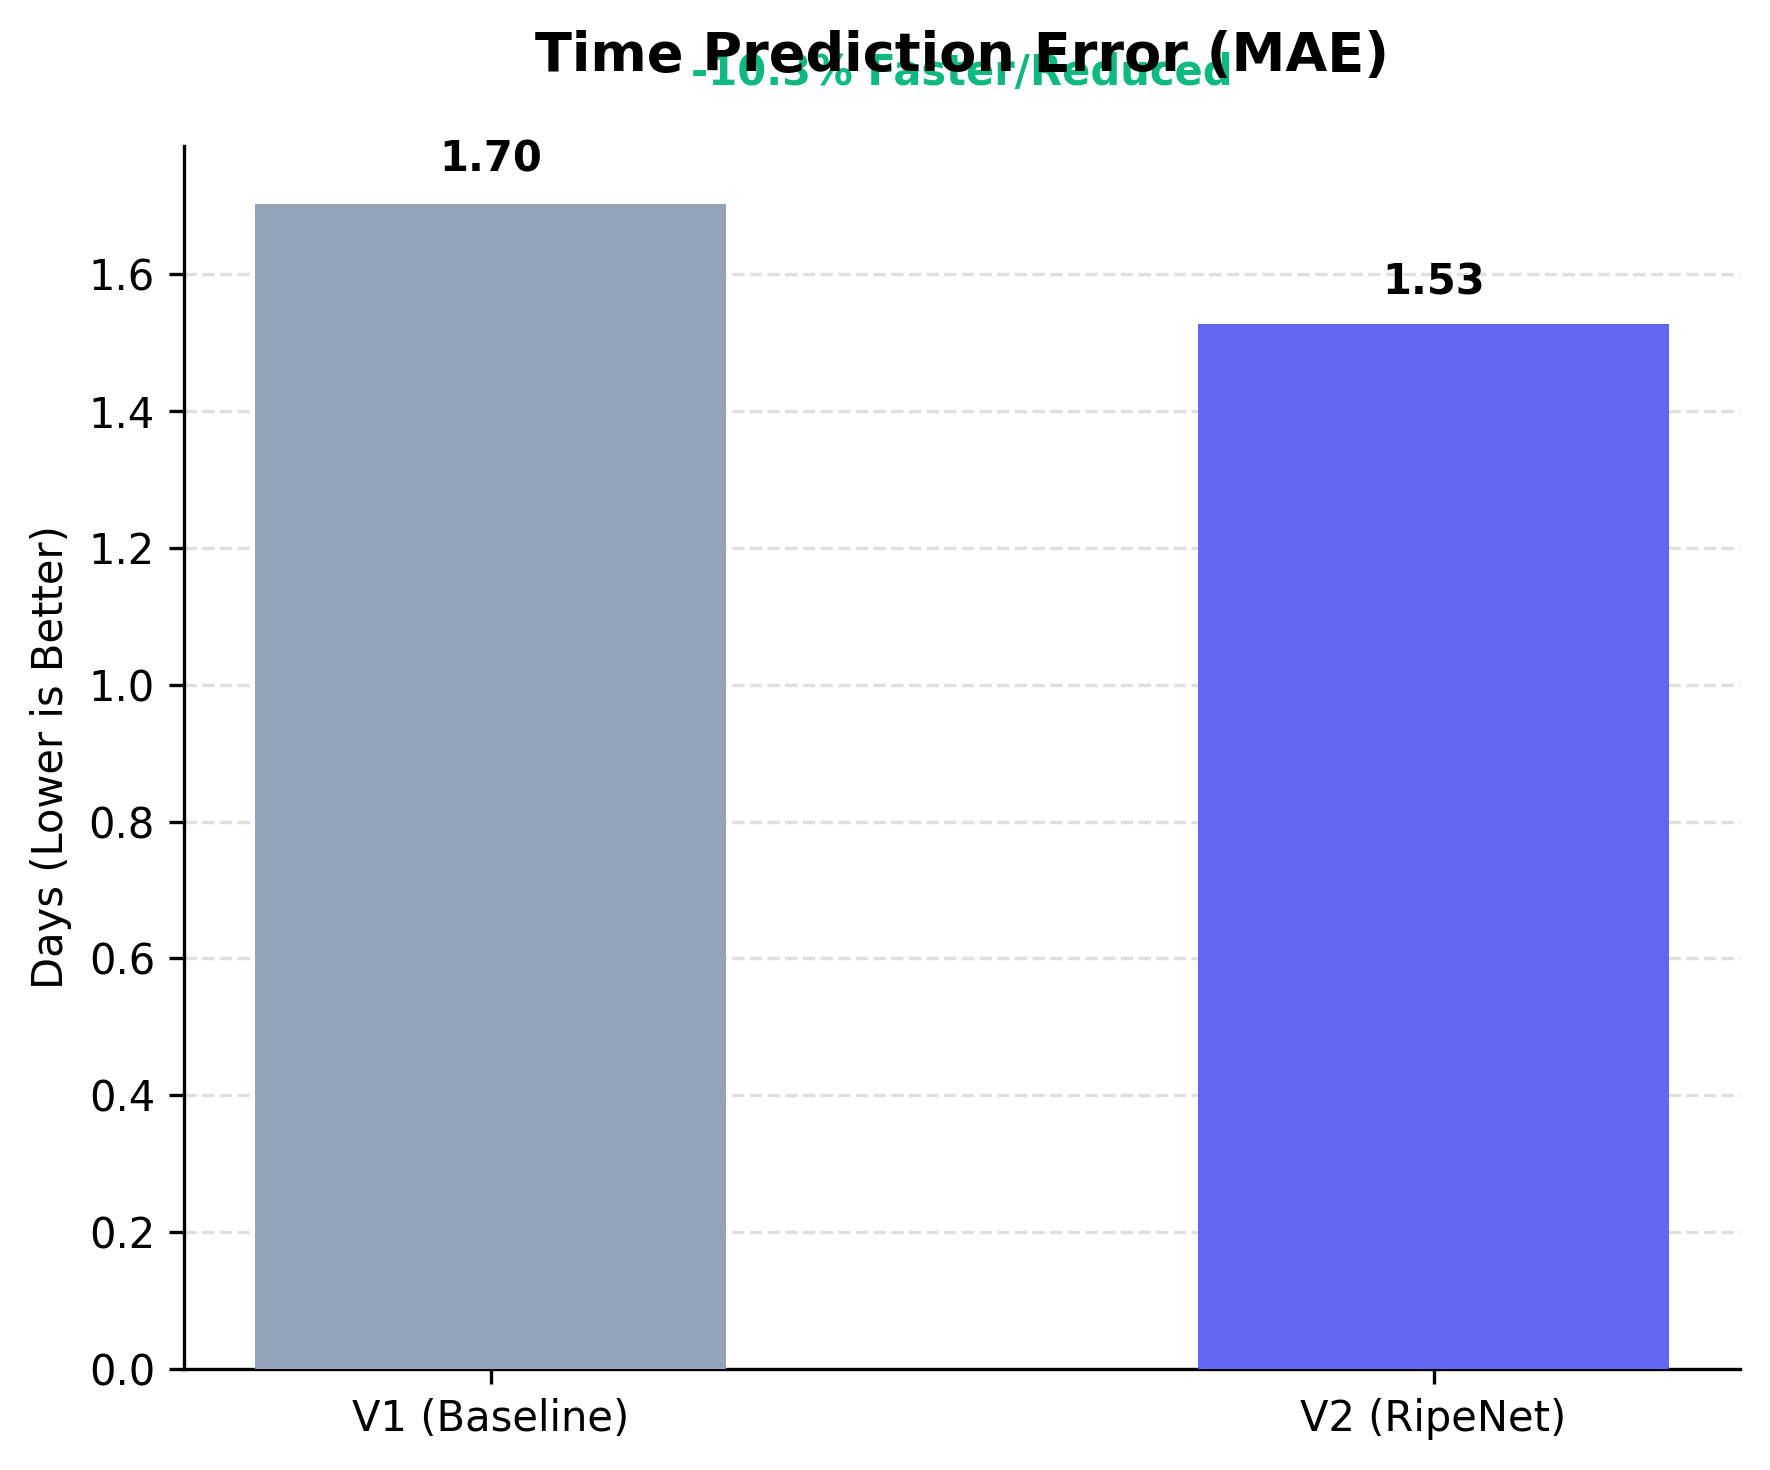
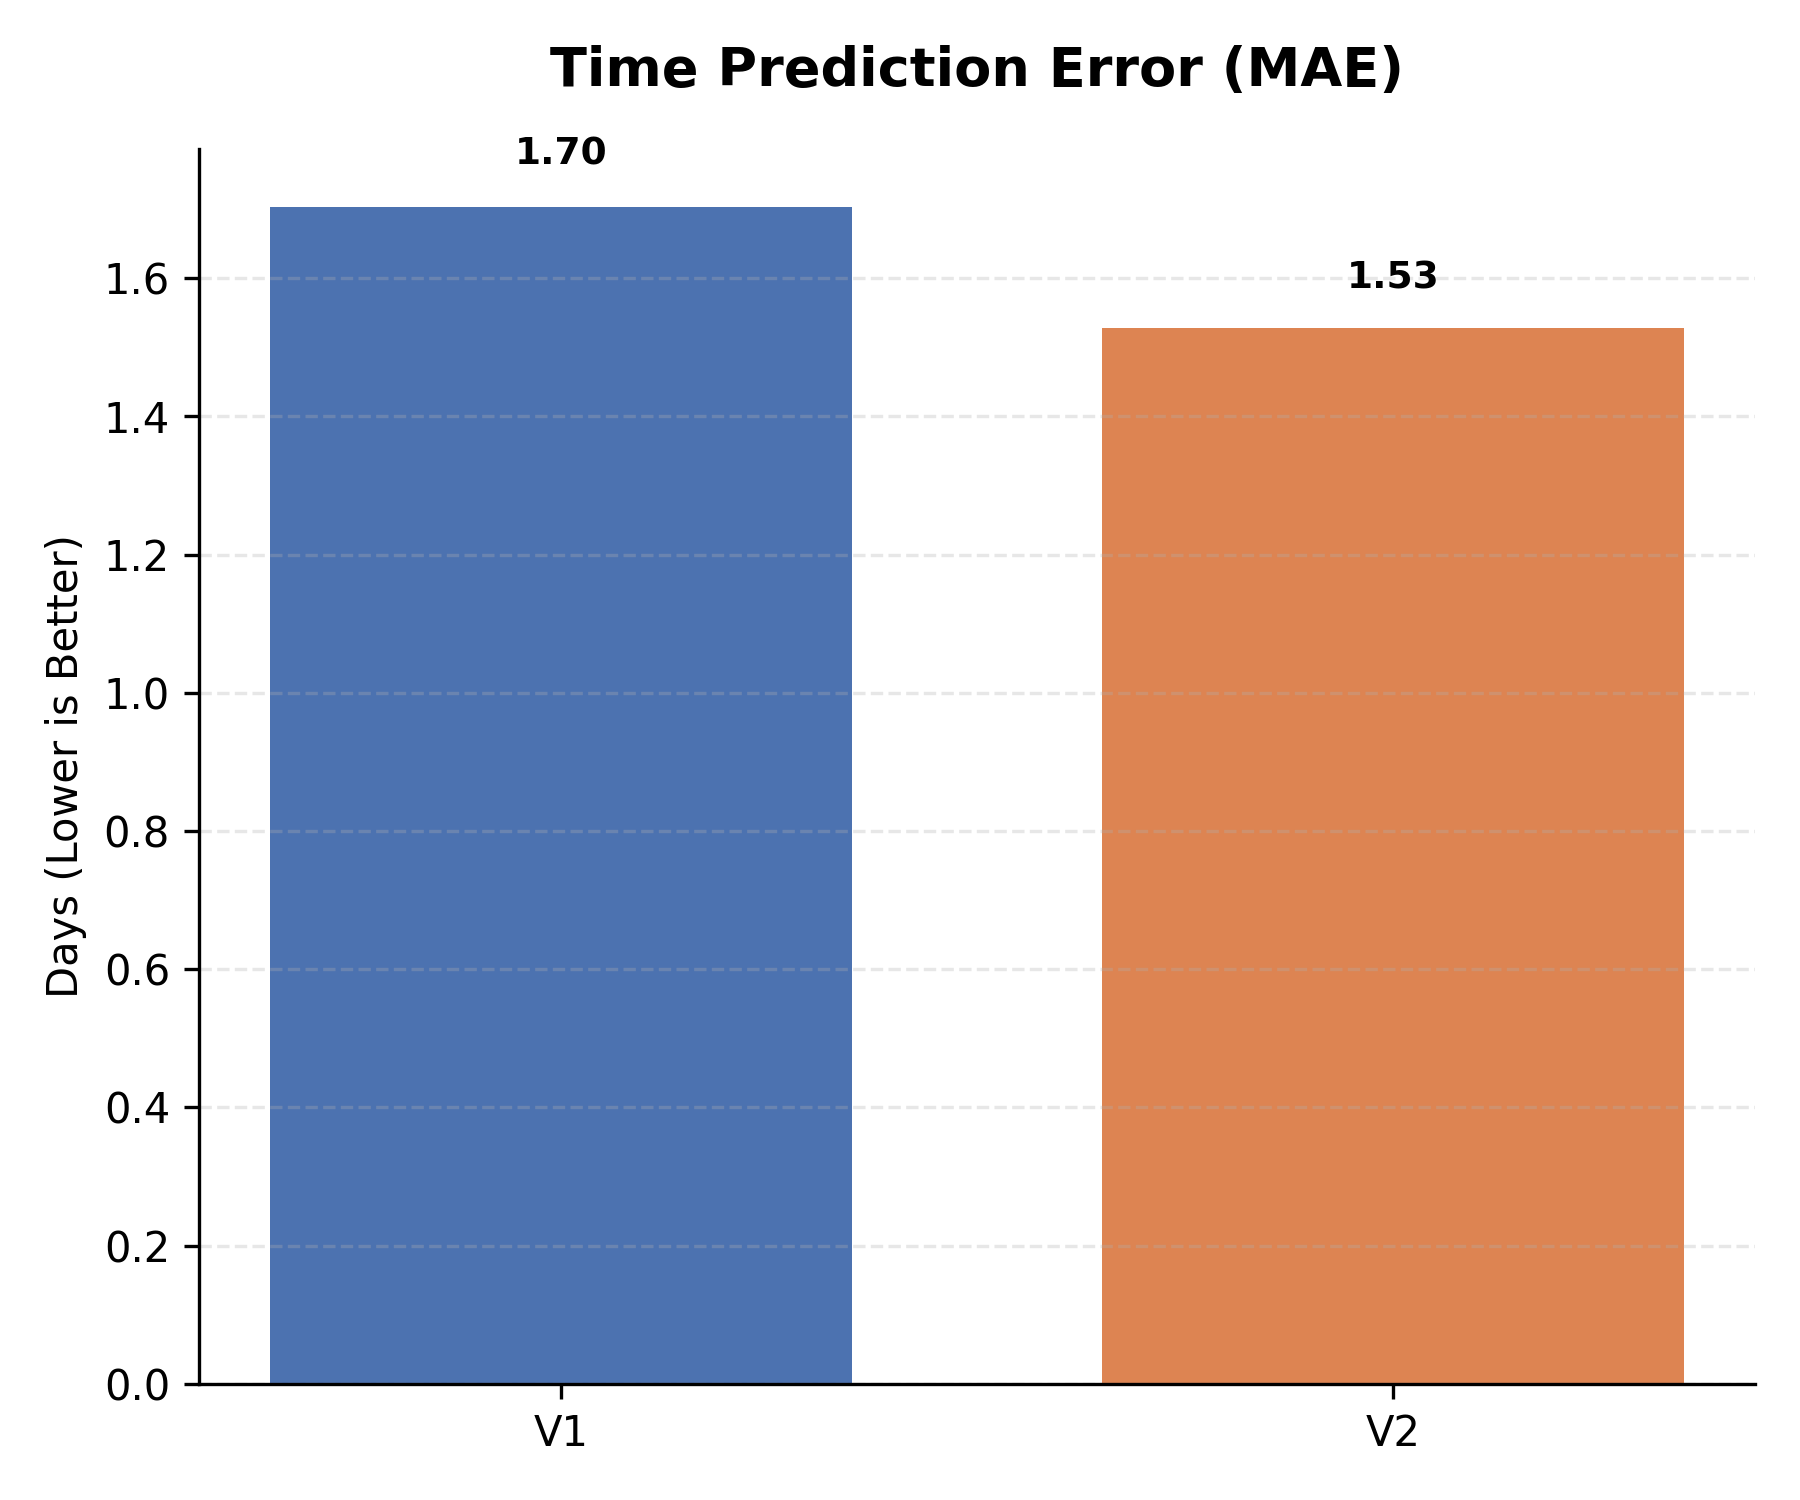
feat: Implement model evaluation and benchmarking for V1 and V2 models, generating performance metrics and comparison plots.

diff --git a/reports/evaluate_models.py b/reports/evaluate_models.py
@@ -108,172 +108,236 @@ v2_model.eval()
 print("Models loaded successfully.\n")
 
 # ==========================
-# FINAL RESEARCH-LEVEL BENCHMARK PLOTS (NO OVERLAP)
+# EVALUATION LOOP
 # ==========================
 
-import seaborn as sns
-import matplotlib.pyplot as plt
+results = []
+
+for _, row in df.iterrows():
+
+    img_path = os.path.join(IMAGE_ROOT, row["image_path"])
+
+    img = Image.open(img_path).convert("RGB")
+    x = transform(img).unsqueeze(0).to(DEVICE)
+
+    # -------- V1 --------
+    t0 = time.time()
+
+    fruit_logits = v1_fruit(x)
+    stage_logits = v1_stage(x)
+    days_pred = v1_time(x)
+
+    v1_time_taken = time.time() - t0
+
+    v1_fruit_pred = V1_FRUIT_MAP[fruit_logits.argmax(dim=1).item()]
+    v1_stage_pred = STAGE_MAP[stage_logits.argmax(dim=1).item()]
+    v1_days_pred  = normalize_days(days_pred.item())
+
+    # -------- V2 --------
+    t0 = time.time()
+
+    v2_out = v2_model(x)
+    fruit_logits_v2 = v2_out["fruit"]
+    stage_logits_v2 = v2_out["ripeness"]
+    days_pred_v2 = v2_out["days"]
+
+    v2_time_taken = time.time() - t0
+
+    v2_fruit_pred = V2_FRUIT_MAP[fruit_logits_v2.argmax(dim=1).item()]
+    v2_stage_pred = STAGE_MAP[stage_logits_v2.argmax(dim=1).item()]
+    v2_days_pred  = normalize_days(days_pred_v2.squeeze().item())
+
+    results.append({
+        "fruit_gt": row["fruit"],
+        "stage_gt": row["stage_name"],
+        "days_gt": row["days"],
+        "v1_fruit": v1_fruit_pred,
+        "v1_stage": v1_stage_pred,
+        "v1_days": v1_days_pred,
+        "v2_fruit": v2_fruit_pred,
+        "v2_stage": v2_stage_pred,
+        "v2_days": v2_days_pred,
+        "v1_time": v1_time_taken,
+        "v2_time": v2_time_taken
+    })
+
+print("Inference completed.\n")
+
+res = pd.DataFrame(results)
+
+# ==========================
+# METRICS
+# ==========================
+
+metrics = {
+    "V1 Fruit Accuracy": accuracy_score(res["fruit_gt"], res["v1_fruit"]),
+    "V2 Fruit Accuracy": accuracy_score(res["fruit_gt"], res["v2_fruit"]),
+    "V1 Stage Accuracy": accuracy_score(res["stage_gt"], res["v1_stage"]),
+    "V2 Stage Accuracy": accuracy_score(res["stage_gt"], res["v2_stage"]),
+    "V1 MAE": mean_absolute_error(res["days_gt"], res["v1_days"]),
+    "V2 MAE": mean_absolute_error(res["days_gt"], res["v2_days"]),
+    "V1 RMSE": np.sqrt(mean_squared_error(res["days_gt"], res["v1_days"])),
+    "V2 RMSE": np.sqrt(mean_squared_error(res["days_gt"], res["v2_days"])),
+    "V1 Avg Time (ms)": res["v1_time"].mean() * 1000,
+    "V2 Avg Time (ms)": res["v2_time"].mean() * 1000
+}
+
+metrics_df = pd.DataFrame(metrics, index=[0])
+metrics_df.to_csv(os.path.join(METRIC_DIR, "summary.csv"), index=False)
+
+print(metrics_df)
+print("\n✅ Evaluation Complete")
+
+# ==========================
+# CLEAN RESEARCH-STYLE BENCHMARK PLOTS (MINIMAL)
+# ==========================
+
+print("\nGenerating clean research-style benchmark figures...")
+
 import matplotlib as mpl
-import pandas as pd
-import os
-import numpy as np
 
-print("\nGenerating final research-level benchmark plots...")
-
-# ---- STYLE CONFIG ----
-sns.set_theme(style="whitegrid", context="paper")
-
+# ---- Clean Academic Style ----
 mpl.rcParams.update({
+    "font.family": "sans-serif",
+    "font.size": 10,
+    "axes.titlesize": 13,
+    "axes.titleweight": "bold",
+    "axes.labelsize": 10,
+    "xtick.labelsize": 10,
+    "ytick.labelsize": 10,
     "figure.dpi": 300,
     "savefig.dpi": 300,
     "axes.spines.top": False,
     "axes.spines.right": False,
-    "axes.titleweight": "bold",
 })
 
-V1_COLOR = "#94A3B8"   # Slate
-V2_COLOR = "#6366F1"   # Indigo
-DELTA_COLOR = "#10B981"  # Emerald green
+# Default research-friendly colors
+V1_COLOR = "#4C72B0"   # Muted Blue
+V2_COLOR = "#DD8452"   # Muted Orange
 
-# ---- METRIC DEFINITIONS ----
-metric_info = [
-    ("Fruit Classification Accuracy",
-     metrics["V1 Fruit Accuracy"] * 100,
-     metrics["V2 Fruit Accuracy"] * 100,
-     True,
-     "Accuracy (%)"),
 
-    ("Ripeness Stage Accuracy",
-     metrics["V1 Stage Accuracy"] * 100,
-     metrics["V2 Stage Accuracy"] * 100,
-     True,
-     "Accuracy (%)"),
+def draw_bar(ax, title, v1, v2, ylabel):
 
-    ("Time Prediction Error (MAE)",
-     metrics["V1 MAE"],
-     metrics["V2 MAE"],
-     False,
-     "Days (Lower is Better)"),
+    is_accuracy = "Accuracy" in title
+    display_v1 = v1 * 100 if is_accuracy else v1
+    display_v2 = v2 * 100 if is_accuracy else v2
 
-    ("Inference Latency",
-     metrics["V1 Avg Time (ms)"],
-     metrics["V2 Avg Time (ms)"],
-     False,
-     "Latency (ms - Lower is Better)")
-]
-
-# ==========================
-# 2x2 GRID FIGURE
-# ==========================
-
-fig, axes = plt.subplots(2, 2, figsize=(12, 9))
-plt.subplots_adjust(hspace=0.5, wspace=0.3)
-
-for ax, (title, v1, v2, higher_is_better, ylabel) in zip(axes.flatten(), metric_info):
-
-    data = pd.DataFrame({
-        "Model": ["V1 (Baseline)", "V2 (RipeNet)"],
-        "Value": [v1, v2]
-    })
-
-    sns.barplot(
-        data=data,
-        x="Model",
-        y="Value",
-        palette=[V1_COLOR, V2_COLOR],
-        ax=ax
+    # Bars closer together
+    bars = ax.bar(
+        ["V1", "V2"],
+        [display_v1, display_v2],
+        color=[V1_COLOR, V2_COLOR],
+        width=0.7   # wider bars = less space between them
     )
 
     ax.set_title(title, pad=15)
     ax.set_ylabel(ylabel)
 
-    # Add value labels on bars
-    for container in ax.containers:
-        ax.bar_label(container, fmt="%.2f", padding=3, fontsize=9)
+    if is_accuracy:
+        ax.set_ylim(0, 100)
 
-    # Compute improvement
-    if higher_is_better:
-        improvement = ((v2 - v1) / v1) * 100
-        delta_text = f"+{improvement:.1f}% Improvement"
-    else:
-        improvement = ((v1 - v2) / v1) * 100
-        delta_text = f"-{improvement:.1f}% Faster/Reduced"
+    ax.yaxis.grid(True, linestyle="--", alpha=0.3)
 
-    # Place improvement text INSIDE plot safely
-    ax.text(
-        0.5,
-        0.90,
-        delta_text,
-        transform=ax.transAxes,
-        ha="center",
-        va="center",
-        fontsize=9,
-        color=DELTA_COLOR,
-        weight="bold",
-        bbox=dict(facecolor="white", edgecolor="none", alpha=0.9, pad=3)
-    )
+    # Value labels
+    for bar in bars:
+        height = bar.get_height()
+        label = f"{height:.2f}%" if is_accuracy else f"{height:.2f}"
+        ax.text(
+            bar.get_x() + bar.get_width()/2,
+            height + (2 if is_accuracy else height * 0.03),
+            label,
+            ha="center",
+            va="bottom",
+            fontsize=9,
+            weight="bold"
+        )
 
-fig.suptitle(
+
+# ==========================
+# 1⃣ COMBINED GRID FIGURE
+# ==========================
+
+fig, axes = plt.subplots(2, 2, figsize=(12, 9))
+plt.subplots_adjust(hspace=0.5, wspace=0.25)
+
+grid_metrics = [
+    ("Fruit Classification Accuracy",
+     metrics["V1 Fruit Accuracy"],
+     metrics["V2 Fruit Accuracy"],
+     "Accuracy (%)"),
+
+    ("Ripeness Stage Accuracy",
+     metrics["V1 Stage Accuracy"],
+     metrics["V2 Stage Accuracy"],
+     "Accuracy (%)"),
+
+    ("Time Prediction Error (MAE)",
+     metrics["V1 MAE"],
+     metrics["V2 MAE"],
+     "Days (Lower is Better)"),
+
+    ("Inference Latency",
+     metrics["V1 Avg Time (ms)"],
+     metrics["V2 Avg Time (ms)"],
+     "Latency (ms - Lower is Better)")
+]
+
+for ax, args in zip(axes.flatten(), grid_metrics):
+    draw_bar(ax, *args)
+
+plt.suptitle(
     "RipeNet V1 vs V2: Multi-Task Learning Benchmark",
     fontsize=15,
-    weight="bold"
+    weight="bold",
+    y=0.97
 )
 
-plt.tight_layout(rect=[0, 0, 1, 0.96])
+plt.tight_layout(rect=[0, 0, 1, 0.95])
 plt.savefig(os.path.join(PLOT_DIR, "benchmark_comparison.png"))
 plt.close()
 
-print("✅ Clean benchmark grid saved.")
 
 # ==========================
-# INDIVIDUAL METRIC FIGURES
+# 2⃣ INDIVIDUAL FIGURES
 # ==========================
 
-for title, v1, v2, higher_is_better, ylabel in metric_info:
+individual_plots = [
+    ("Fruit Classification Accuracy",
+     metrics["V1 Fruit Accuracy"],
+     metrics["V2 Fruit Accuracy"],
+     "Accuracy (%)",
+     "fruit_accuracy.png"),
 
-    plt.figure(figsize=(6,5))
+    ("Ripeness Stage Accuracy",
+     metrics["V1 Stage Accuracy"],
+     metrics["V2 Stage Accuracy"],
+     "Accuracy (%)",
+     "stage_accuracy.png"),
 
-    data = pd.DataFrame({
-        "Model": ["V1 (Baseline)", "V2 (RipeNet)"],
-        "Value": [v1, v2]
-    })
+    ("Time Prediction Error (MAE)",
+     metrics["V1 MAE"],
+     metrics["V2 MAE"],
+     "Days (Lower is Better)",
+     "mae_comparison.png"),
 
-    ax = sns.barplot(
-        data=data,
-        x="Model",
-        y="Value",
-        palette=[V1_COLOR, V2_COLOR]
-    )
+    ("Time Prediction Error (RMSE)",
+     metrics["V1 RMSE"],
+     metrics["V2 RMSE"],
+     "Days (Lower is Better)",
+     "rmse_comparison.png"),
 
-    plt.title(title, pad=15)
-    plt.ylabel(ylabel)
+    ("Inference Latency",
+     metrics["V1 Avg Time (ms)"],
+     metrics["V2 Avg Time (ms)"],
+     "Latency (ms)",
+     "inference_time.png")
+]
 
-    for container in ax.containers:
-        ax.bar_label(container, fmt="%.2f", padding=3, fontsize=9)
-
-    if higher_is_better:
-        improvement = ((v2 - v1) / v1) * 100
-        delta_text = f"+{improvement:.1f}% Improvement"
-    else:
-        improvement = ((v1 - v2) / v1) * 100
-        delta_text = f"-{improvement:.1f}% Faster/Reduced"
-
-    plt.text(
-        0.5,
-        0.88,
-        delta_text,
-        transform=ax.transAxes,
-        ha="center",
-        va="center",
-        fontsize=9,
-        color=DELTA_COLOR,
-        weight="bold",
-        bbox=dict(facecolor="white", edgecolor="none", alpha=0.9, pad=3)
-    )
-
-    filename = title.lower().replace(" ", "_").replace("(", "").replace(")", "") + ".png"
+for title, v1, v2, ylabel, filename in individual_plots:
+    fig, ax = plt.subplots(figsize=(6,5))
+    draw_bar(ax, title, v1, v2, ylabel)
     plt.tight_layout()
     plt.savefig(os.path.join(PLOT_DIR, filename))
     plt.close()
 
-print("✅ Individual benchmark figures saved.")
+print("✅ Clean benchmark figures generated successfully.")
